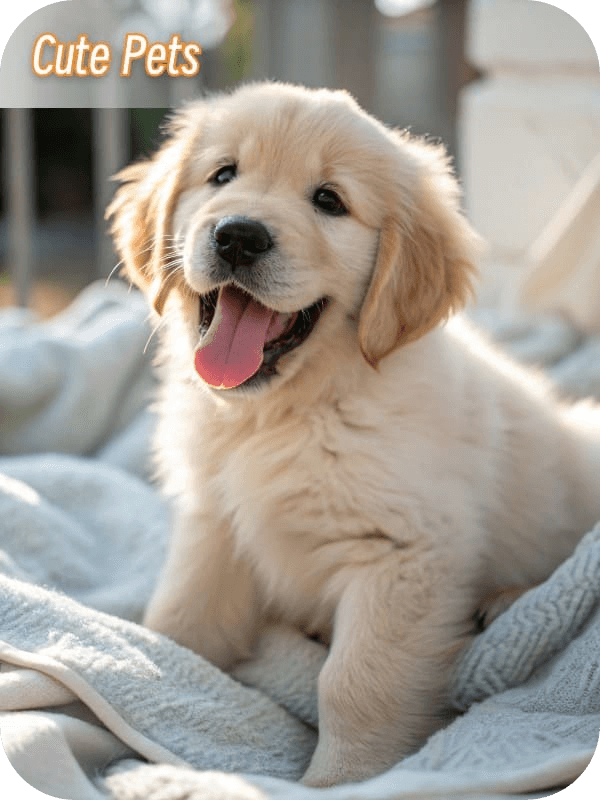
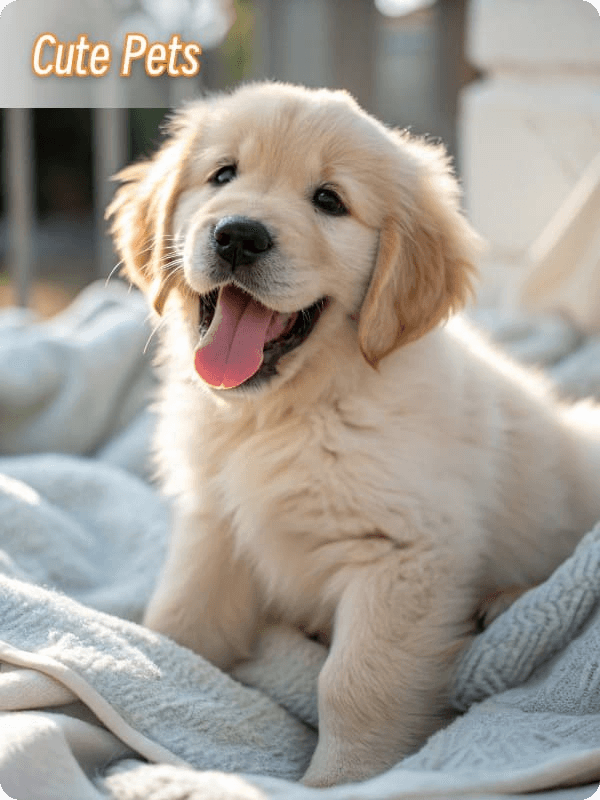
UI调整

diff --git a/assets/scripts/UI/LevelUnlockUI.ts b/assets/scripts/UI/LevelUnlockUI.ts
@@ -1,5 +1,6 @@
-import { _decorator, Component, Node, SpriteFrame, Sprite, UITransform, Rect, resources, Prefab, instantiate, tween, Vec3, sys } from 'cc';
+import { _decorator, Component, Node, SpriteFrame, Sprite, UITransform, Rect, resources, Prefab, instantiate, tween, Vec3, sys, utils } from 'cc';
 import { CardItem } from './CardItem';
+import { Utils } from '../utils/Utils';
 const { ccclass, property } = _decorator;
 
 /**
@@ -108,10 +109,11 @@ export class LevelUnlockUI extends Component {
      */
     private onStartGameBtnClick(): void {
         console.log('[LevelUnlockUI] 点击开始游戏按钮');
-        
         // 通知外部开始游戏
         if (this.onStartGame) {
+        Utils.setScale(this.startGameBtn, 0.95, 0.1, () => {
             this.onStartGame();
+        })
         } else {
             console.warn('[LevelUnlockUI] 未设置 onStartGame 回调');
         }

diff --git a/assets/scripts/utils/Utils.ts b/assets/scripts/utils/Utils.ts
@@ -81,4 +81,13 @@ export class Utils {
             this.hidePopup(node, duration);
         }
     }
+    public static setScale(node: Node, scale: number,duration:number = 0.07,cb:Function=null): void {
+        tween(node)
+            .to(duration, { scale: new Vec3(scale, scale, 1) })
+            .to(duration, { scale: new Vec3(1, 1, 1) })
+            .call(() => {
+                cb && cb();
+            })
+            .start();
+    }
 }
